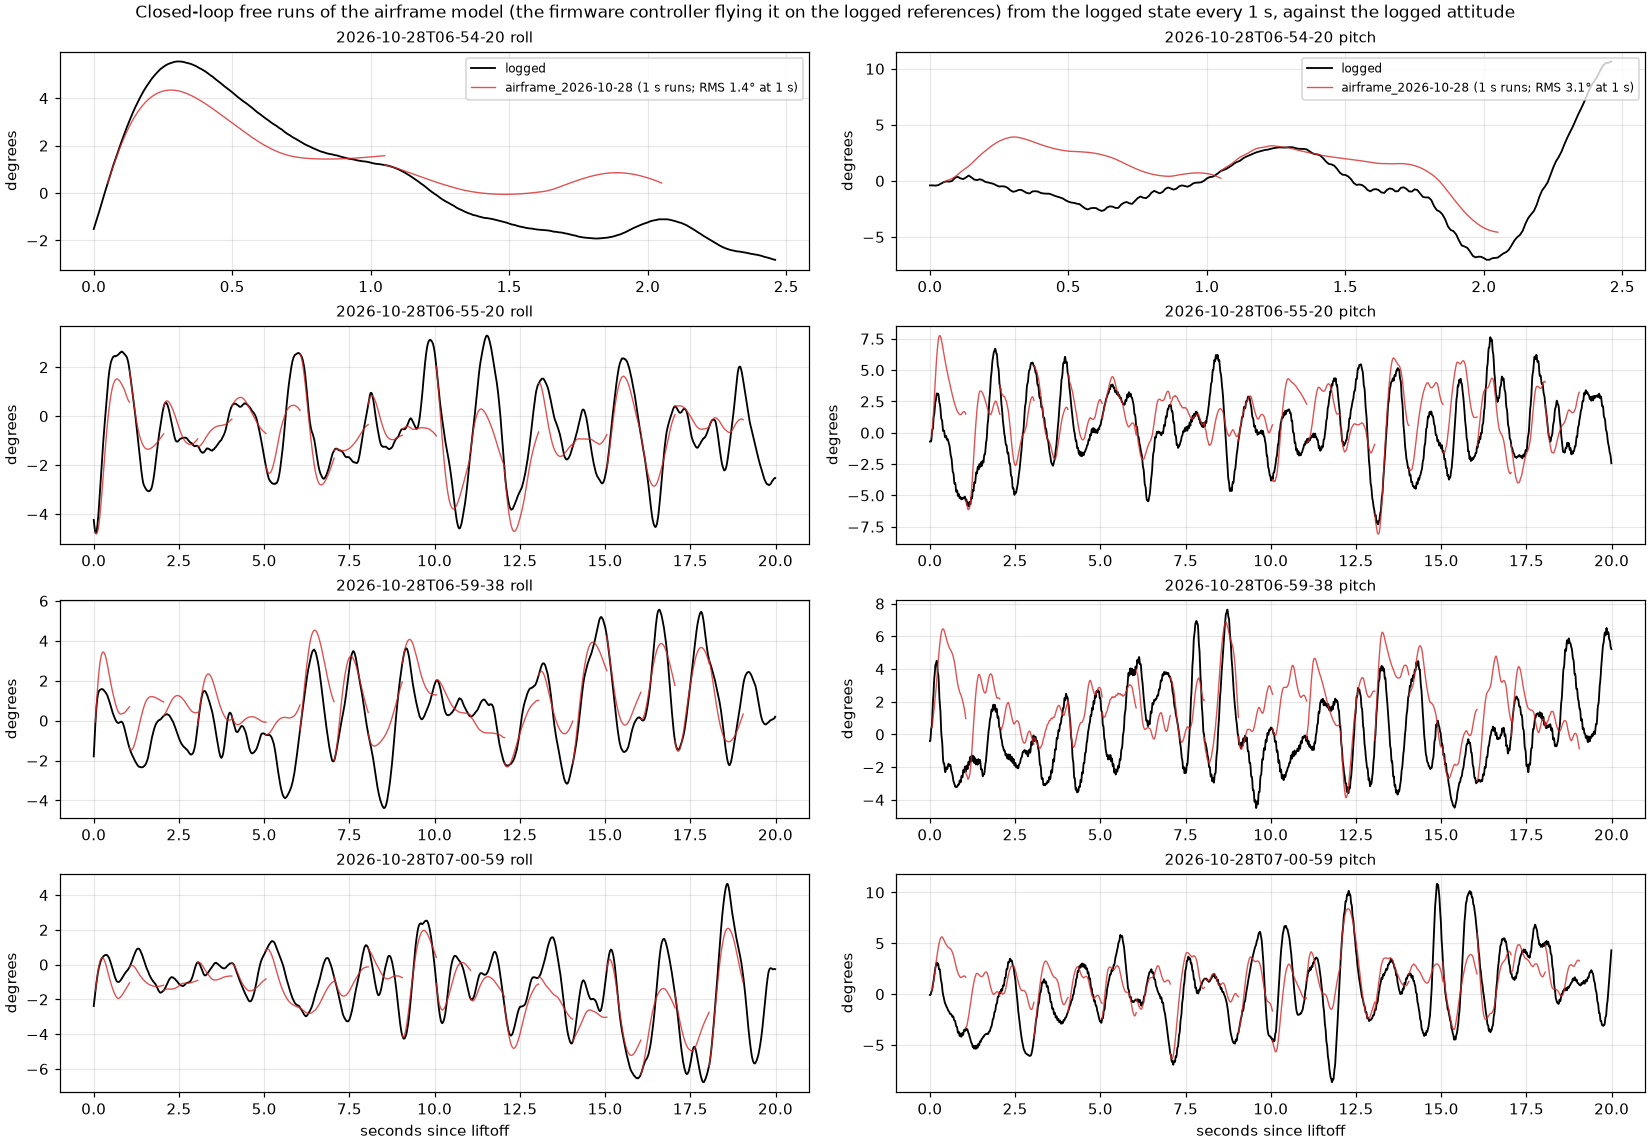
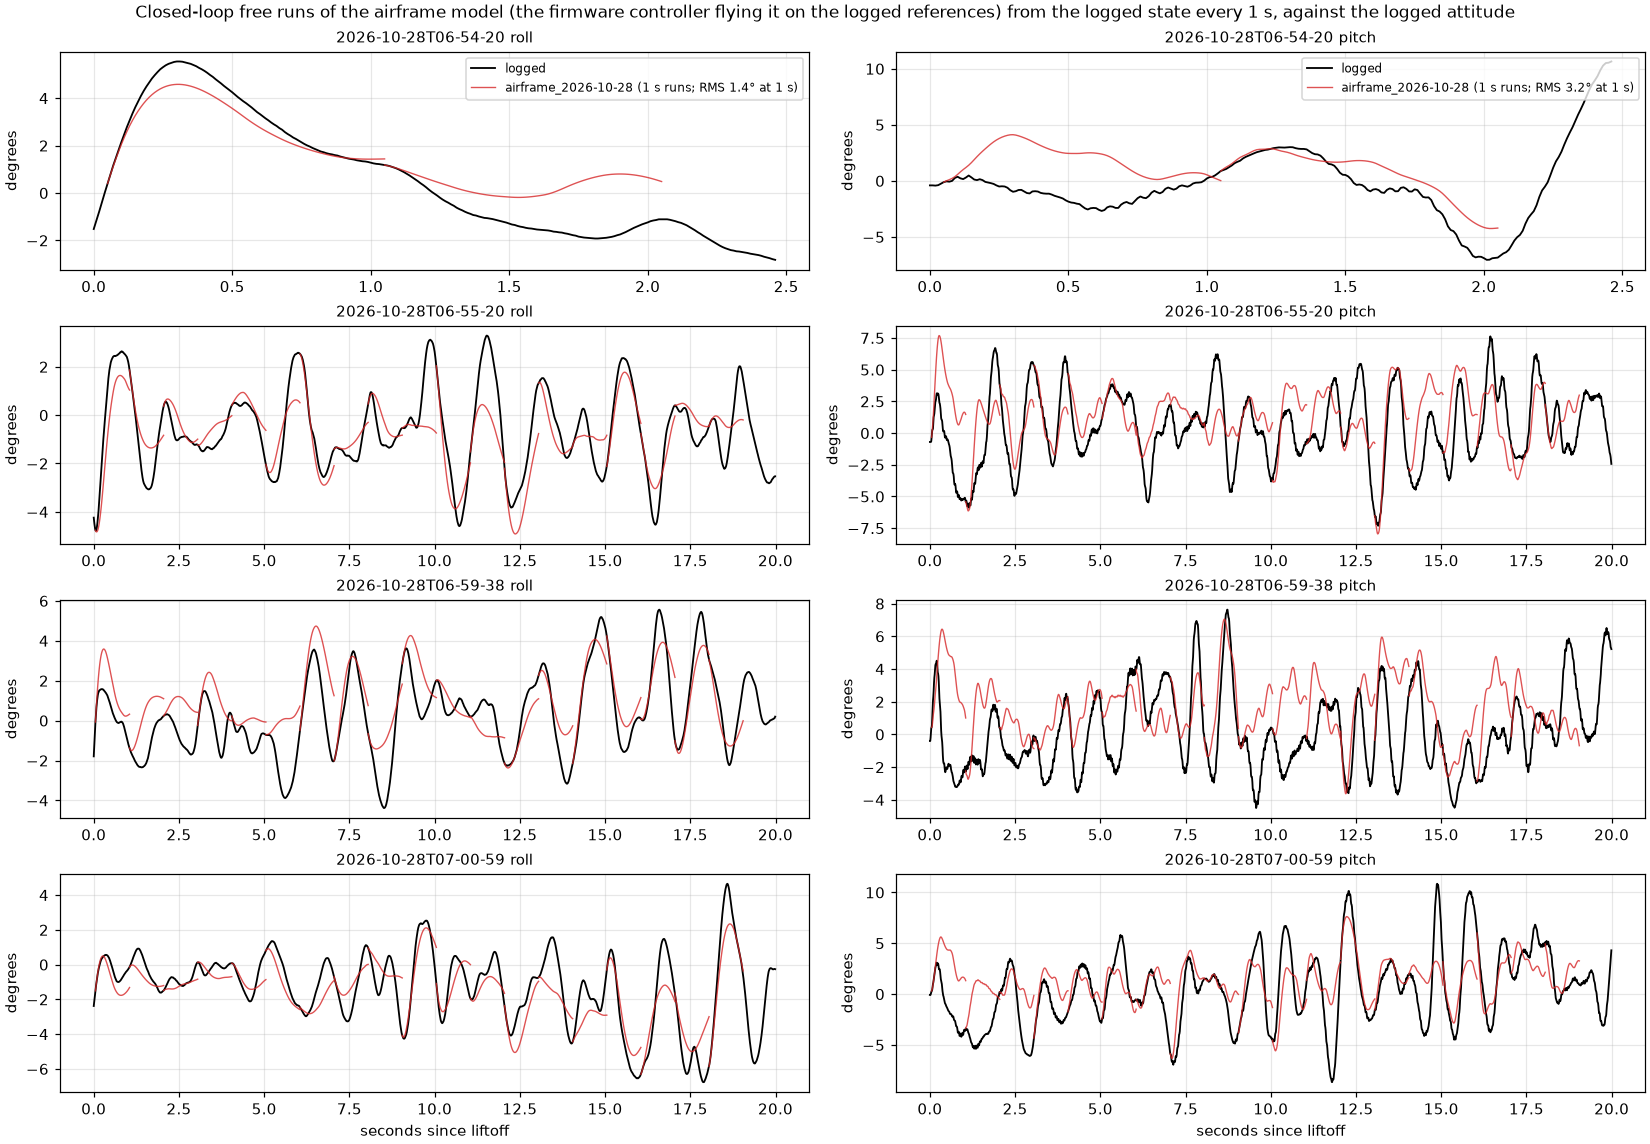
Third sim calibration on the geometry plant (spectral mismatch 0.241 to 0.194: pitch 0.3-0.8 Hz excess gone, sideways wander 0.13 against 0.16 m; prediction same or better) and recovery/flip retuned on it with roll authority randomized x0.8-5: recovery map 91% safe, flip 91% clean randomized / 99.4%

diff --git a/src/sw/sim/recover.py b/src/sw/sim/recover.py
@@ -149,8 +149,8 @@ def randomization(n, seed, spread=None):
     spread = SPREAD if spread is None else spread
     rng = np.random.default_rng(seed + 99)
     u = lambda lo, hi: np.exp(rng.uniform(math.log(max(1 + (lo - 1) * spread, 0.1)), math.log(1 + (hi - 1) * spread), n))
-    # roll_thrust (on differential_slope, the roll authority) reaches 2.2: the 2026-10-28 refits trade roll authority against motor lag (0.3-0.43 with 10-60 ms lag fits best, 0.93 with 110-120 ms almost as well), so the range covers both.
-    return {"pitch_tilt": u(0.7, 1.5), "roll_thrust": u(0.8, 2.2), "thrust": u(0.9, 1.1), "motor_delay": u(0.8, 1.4), "servo_delay": u(0.8, 1.4), "inertia": u(0.85, 1.2), "drag": u(0.6, 1.6), "disturbance": u(0.5, 2.0)}
+    # roll_thrust (on differential_slope, the roll authority) spans 0.8-5x: hover fits put the slope at 0.25-0.32 of the thrust table with fast motors, the 2026-10-27 fit at 1.33, and a full-differential command is far outside what hover measured, so the range runs from the fit to about the bench table.
+    return {"pitch_tilt": u(0.7, 1.5), "roll_thrust": u(0.8, 5.0), "thrust": u(0.9, 1.1), "motor_delay": u(0.8, 1.4), "servo_delay": u(0.8, 1.4), "inertia": u(0.85, 1.2), "drag": u(0.6, 1.6), "disturbance": u(0.5, 2.0)}
 
 
 def estimate(quat, rng):

diff --git a/src/sw/sim/models/NOTES.md b/src/sw/sim/models/NOTES.md
@@ -161,6 +161,8 @@ The identification is identify_airframe's protocol (four hovers, held out by fli
 Then disturbances refit (fit_disturbances.py) and calibrate_sim on the new parameters (tilt pitch arm, its held share and lag, differential_slope, both pendulums, torque drift sizes and correlation times, force drift size; 30 generations): tilt arm ×1.14, held share ×1.07, lag 1.05 s, differential_slope ×0.79 (to 0.25), roll pendulum ×1.5, pitch ×0.94, torque drifts nearly white (0.05–0.07 s) ×1.6/1.4, force drifts ×0.31. Pitch bands 2.28/2.61/1.01° against the real 1.65/2.51/0.91 (the previous calibration 1.78/2.20/1.02: the 1 Hz peak is now matched and the 0.3–0.8 Hz band 38% high), roll 1.47/0.92/0.28 against 1.75/0.90/0.25, range RMS 0.21 against 0.16 m, sideways 0.12 against 0.16 m; plot_hover's rates 24.2 against 24.4/24.1 deg/s in pitch and 9.1 against 9.8/10.0 in roll. Held out by flight with the calibrated parameters held and the rest refit per fold (the fit's cost is the same at the calibrated point, 1839 against 1838.6): roll/pitch 1.01°/2.97° at 250 ms, 1.49°/3.20° at 500 ms, 1.50°/2.92° at 1 s, against 1.08°/3.48°, 1.61°/3.18°, 1.58°/2.91° for the previous calibrated model. Plots regenerated (airframe_prediction_2026-10-28.png, hover_prediction_2026-10-28.png). validate_rigid: rigid.py matches the model within 0.1° to 500 ms (1 s pitch 3.08° against 2.95°). The 2026-10-27 model was refit in the new form on the earlier table (46 flights, no folds): differential_slope 1.33, wash 0.44.
 Roll authority is still not pinned: differential_slope came out 0.32 identified, 0.25 calibrated, 1.33 on 2026-10-27, and it slides against the motor lag with more evaluations; a load-cell sweep of the recalibrated ESCs around hover would settle it. Whether the geometry terms transfer is untested: the 2026-10-27 (legs on, by the session's account) and 2026-10-28 hovers do not show a leg removal in the hover thrust (the weight the table implies at 15.3 V is 944 g on 10-27, 972 g and 959 g on 10-28 before the recalibration; removing the legs takes 70 g off), the resting attitude changes around 05:2x UTC on 10-28 as if the support changed, and taking the legs off would change the pitch tilt authority by only −1.5% in CAD (roll +4%, yaw −5%), well inside the fits' scatter. Fitted on 10-27 and scored on the 30 pre-recalibration 10-28 flights after 05:00, the legs-off geometry predicts no better than the unchanged one. A deliberate change of 20% or more in pitch authority (ballast at a known offset, a different pivot height) flown in one session would test it. Recovery and flip (parked, tuned on the previous plant) run on the new one at 8% safe and 33% clean (were 89%/87%): their roll authority is the calibrated differential_slope applied to the thrusts, so a full differential command gives a quarter of the table's difference, an extrapolation of hover's small-signal fit; retune before using them.
 
+**Third calibration pass and the parked controllers retuned (2026-10-28 afternoon).** calibrate_sim from the geometry plant's own values: mismatch 0.241 → 0.194; pitch bands 1.45/1.89/1.00° and roll 2.06/0.91/0.27° against real 1.65/2.51/0.91 and 1.75/0.90/0.25; range/sideways RMS 0.14/0.13 m against 0.16/0.16; prediction unchanged or better (roll/pitch 0.96/2.98° at 250 ms, 1.46/3.10° at 500 ms, 1.56/2.94° at 1 s). Left: pitch rate 20 against 24 deg/s (the angle bands are matched, the rate is not in the cost), and differential_slope 0.22, which is a small-signal fit. Recovery and flip retuned on this plant with roll authority randomized ×0.8–5 around the fitted slope (0.18–1.1 of the thrust table, covering the 2026-10-27 fit's 1.33 times the old table's scale): recovery map 91% safe overall (84% over the tuning drops randomized, 77% at the nominal, weakest-roll plant); flip 91% clean randomized, 99.4% nominal. Videos: sw/sim/videos/falls_geometry.mp4 (six drops, all safe), flips_geometry.mp4.
+
 **Full-attitude sim in the air (validate_rigid.py).** rigid.py flown in closed loop from the same starts, with no random disturbances or sensor noise, matches the airframe model to within 0.1° up to 500 ms. At 1 s its pitch error is 3.7° against the model's 3.1°, and yaw R² 0.28 against 0.34. About a third of that gap is the horizontal drag: rigid.py uses the drag calibrated from the camera's position statistics (0.58, 0.34 per s), the airframe model its own velocity fit (1.17, 0.68). Battery sag and the thrust-scaled flying terms change nothing. Limits: hover-like flight only (attitudes within about 20°, the range the flights covered); the aggressive states of recovery and flips are extrapolation. Beyond that range rigid.py keeps the airframe model's attitude and speed terms at what hover measured: tilt clipped to 0.6 rad and faded out by 90°, body-plane speed clipped to 1.5 m/s with the same fade. Before this, those terms (roll stiffness −13 rad/s² per rad, speed moments up to 6 rad/s² per m/s, fed a fall's speed) righted an uncontrolled inverted drone by themselves; now it tumbles. The hover-range validation above is unchanged by it.
 
 **Ground contact (validate_contact.py).** 500 motors-off touchdowns (vertical 0.3–2 m/s, horizontal 0–2 m/s, tilt 0–40° in roll or pitch, sliding toward or away from the low side) in rigid.py and in MuJoCo's own contact physics with the same body and contact points. They agree on which landings end upright in 100% of cases (97% with the CAD inertia). The legless belly tips on this grid only when pitched 40° nose-down while sliding forward at 1–1.5 m/s or more. Peak contact forces in rigid.py are about 1.7× MuJoCo's on level drops; GROUND_K 650 / GROUND_C 25 would match them, but neither engine's stiffness is measured, so force thresholds are only a loose backstop to the touchdown-speed limit.
